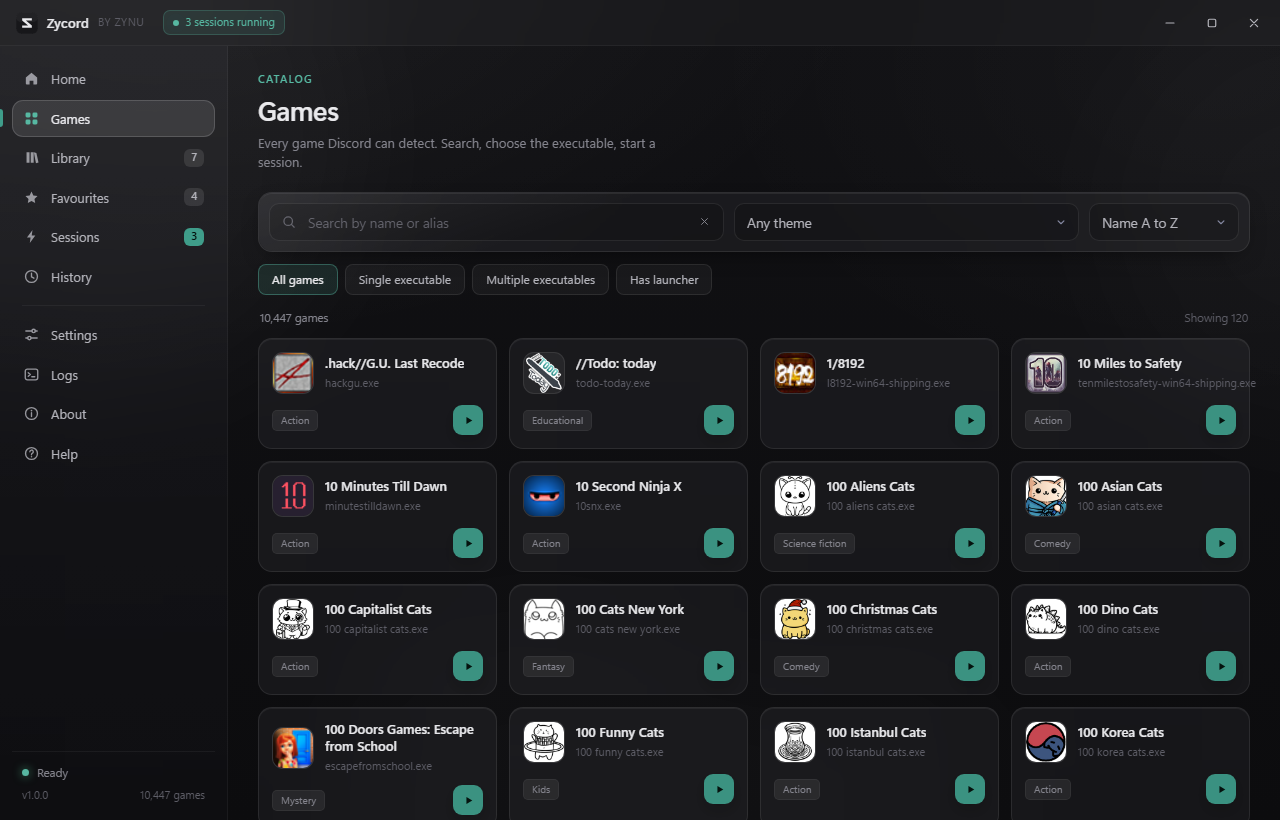
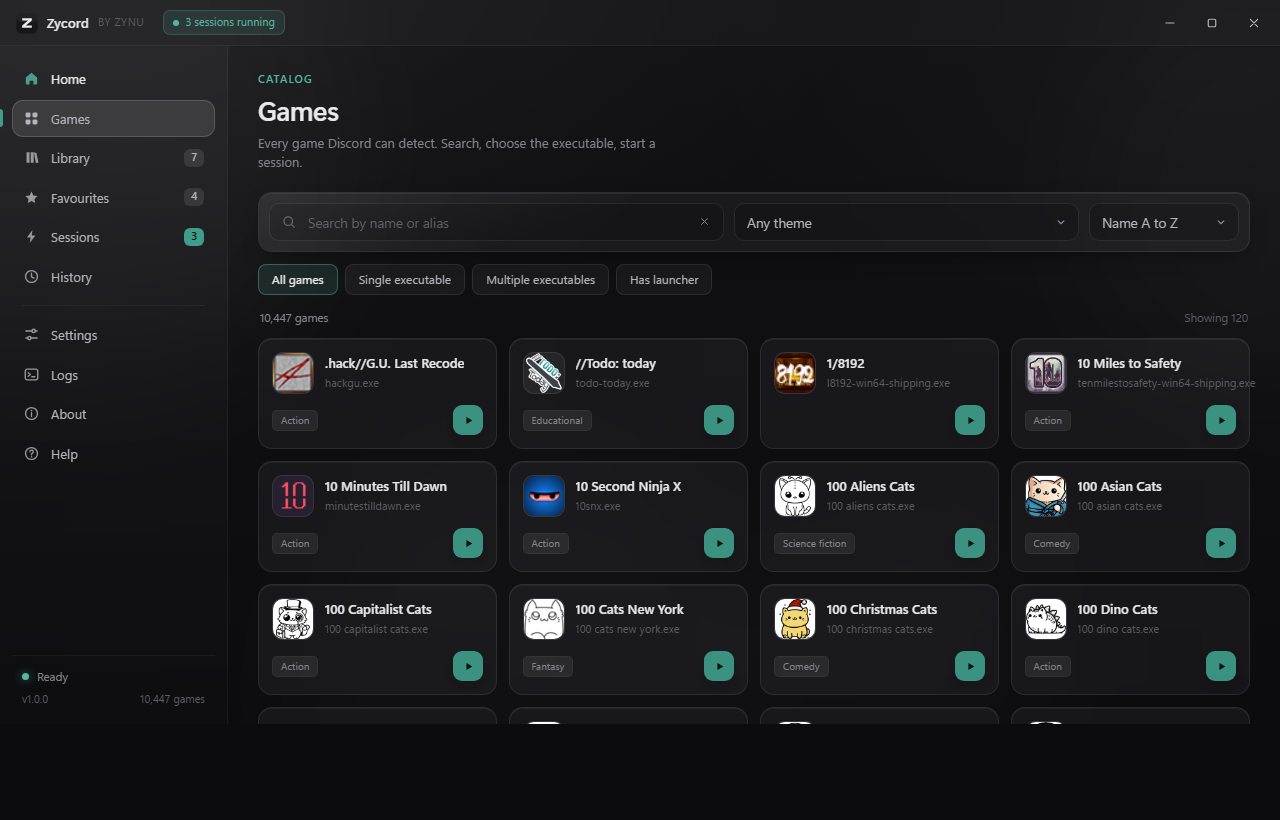
Match the session accent and refresh the screenshots
The success dot, the running card border and the toast edge still carried
the old mint literal rgba(94, 231, 168, ...) while the --ok token had
already moved to the teal accent. Five occurrences replaced, so the
running state now matches the rest of the palette.

The four screenshots were captured before the mark geometry was corrected
and showed the reversed Z. Recaptured against the live renderer with
reduced motion on, so the games grid renders fully instead of fading in
mid-capture. Copies in docs/ and site/assets/ are the same bytes.

diff --git a/app/renderer/app.css b/app/renderer/app.css
@@ -300,7 +300,7 @@ body.reduce-motion * { transition-duration: .01ms !important; animation-duration
   background: var(--ink-4);
   transition: background .2s, box-shadow .2s;
 }
-.dot.is-ok { background: var(--ok); box-shadow: 0 0 10px rgba(94, 231, 168, .6); }
+.dot.is-ok { background: var(--ok); box-shadow: 0 0 10px rgba(87, 184, 162, .6); }
 .dot.is-busy { background: var(--accent); box-shadow: 0 0 10px rgba(87, 184, 162, .7); }
 .dot.is-bad { background: var(--danger); box-shadow: 0 0 10px rgba(255, 122, 144, .6); }
 .foot-meta { display: flex; justify-content: space-between; font-size: 10.5px; color: var(--ink-4); letter-spacing: .02em; }
@@ -553,7 +553,7 @@ html[data-theme="light"] .select option { background: #fff; color: #17171a; }
   background: var(--glass-2);
   box-shadow: 0 18px 36px -20px rgba(0, 0, 0, .55), inset 0 1px 0 rgba(255, 255, 255, .08);
 }
-.card.is-running { border-color: rgba(94, 231, 168, .45); }
+.card.is-running { border-color: rgba(87, 184, 162, .45); }
 
 @keyframes cardIn {
   from { opacity: 0; transform: translateY(6px); }
@@ -1028,8 +1028,8 @@ html[data-theme="light"] .segmented { background: rgba(255, 255, 255, .6); }
   left: 0; top: 3px;
   width: 14px; height: 14px;
   border-radius: 50%;
-  background: rgba(94, 231, 168, .16);
-  border: 1px solid rgba(94, 231, 168, .4);
+  background: rgba(87, 184, 162, .16);
+  border: 1px solid rgba(87, 184, 162, .4);
 }
 .ticks li::after {
   content: "";
@@ -1210,7 +1210,7 @@ html[data-theme="light"] .toast { background: rgba(255, 255, 255, .95); }
   background: var(--accent);
   flex: none;
 }
-.toast.is-ok::before { background: var(--ok); box-shadow: 0 0 8px rgba(94, 231, 168, .7); }
+.toast.is-ok::before { background: var(--ok); box-shadow: 0 0 8px rgba(87, 184, 162, .7); }
 .toast.is-error::before { background: var(--danger); box-shadow: 0 0 8px rgba(255, 122, 144, .7); }
 .toast.is-out { animation: toastOut .2s ease forwards; }
 
